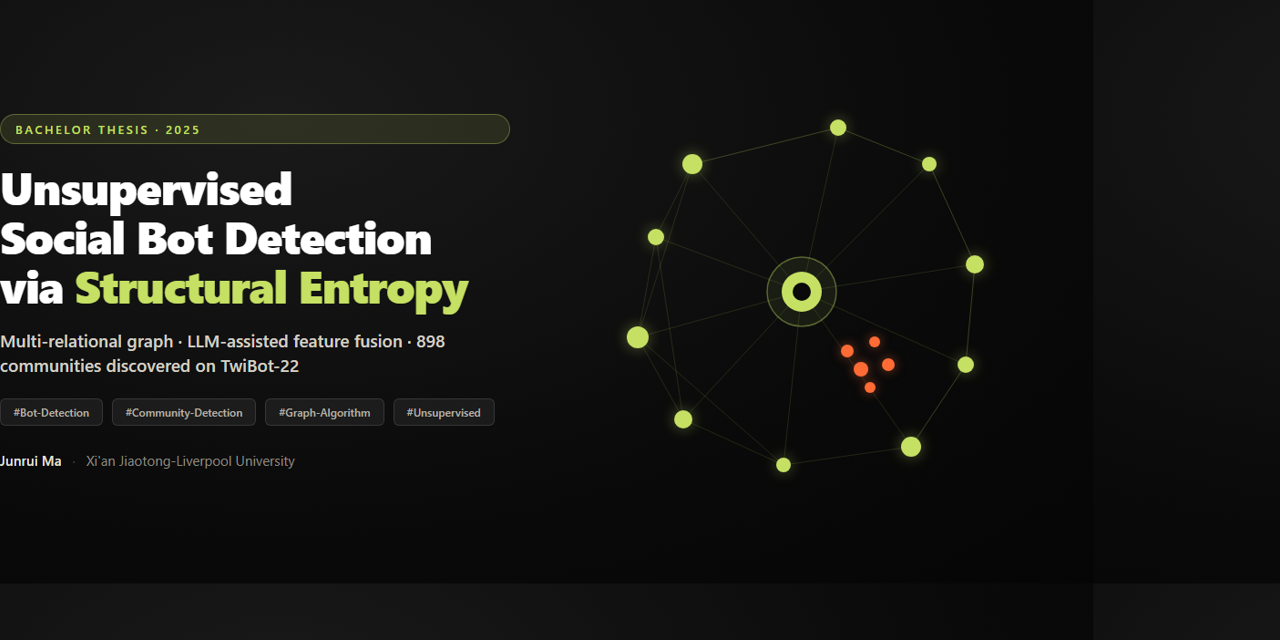
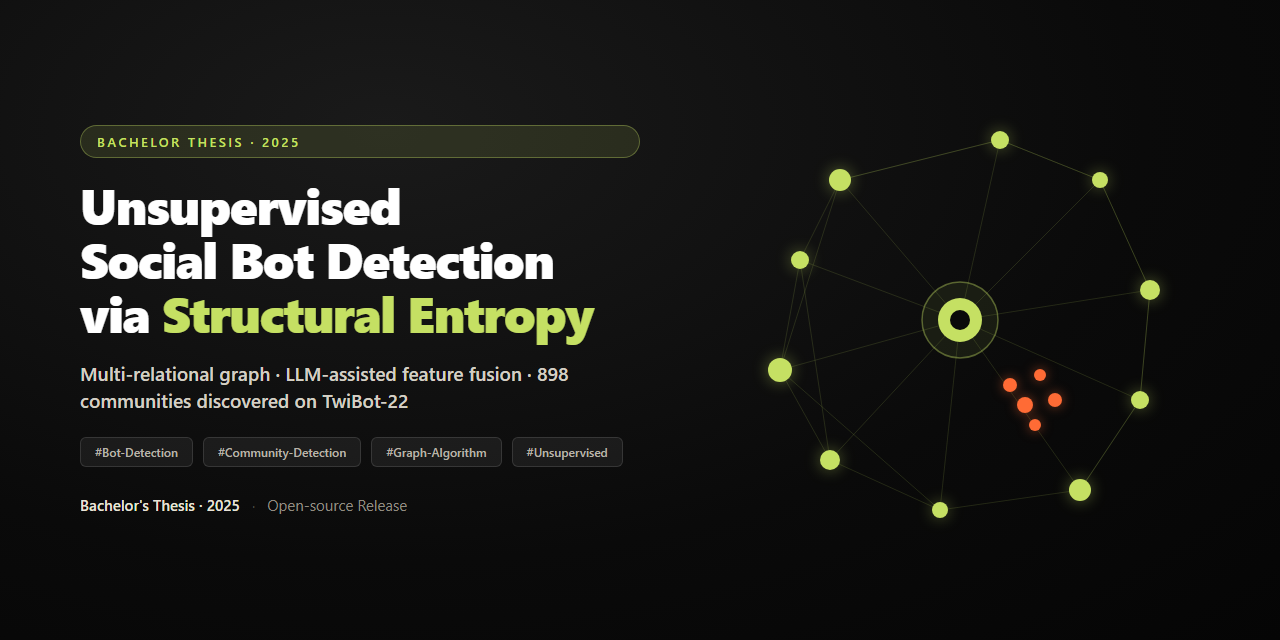
docs: remove thesis PDF; scrub personal metadata; regenerate sanitized social preview
- Delete paper/ (thesis PDF removed from the repository entirely)
- Rewrite Paper section as Research Highlights (innovation summary)
- LICENSE copyright changed to Anonymous
- README citation block, BibTeX, footer de-identified (Anonymous / 2025)
- docs/social-preview.html author block rewritten (Bachelor's Thesis · 2025)
- docs/social-posts/{xiaohongshu,zhihu,english-blog} privacy scrubbed
- docs/screenshots/social-preview.png regenerated from sanitized HTML

diff --git a/docs/social-preview.html b/docs/social-preview.html
@@ -107,9 +107,9 @@
       <div class="tag">#Unsupervised</div>
     </div>
     <div class="author">
-      <span class="author-name">Anonymous</span>
+      <span class="author-name">Bachelor's Thesis · 2025</span>
       <span class="author-divider">·</span>
-      <span>Anonymous Institution</span>
+      <span>Open-source Release</span>
     </div>
   </div>
   <div class="right">

diff --git a/docs/social-posts/zhihu.md b/docs/social-posts/zhihu.md
@@ -1,0 +1,83 @@
+# 知乎深度长文
+
+> 标题候选：
+> A. 不标一个标签，我靠"结构熵"从 1.8 万用户里揪出了 898 个社区（毕设开源全记录）
+> B. 社交机器人检测，真的必须靠标注数据吗？一个无监督路线的完整实验复盘
+
+---
+
+## 知乎文章正文
+
+### 一、问题：为什么机器人检测越来越难做
+
+社交机器人（水军、僵尸粉、自动化账号）已经成了平台生态里绕不开的问题。传统的检测思路高度依赖**人工标注数据**：先找人标几万条"这是真人、这是机器人"，再训练分类器。
+
+这套思路有两个致命伤：
+
+1. **标注成本极高**。TwiBot-22 这种公开基准里，每条标注背后都是人工 + 多轮交叉验证，标到几十万条几乎不可能。
+2. **泛化性差**。Bot 运营者换一套话术、换一种发帖节奏，模型立刻失灵。你训练时见到的"机器人长相"，很快就不再是机器人的样子。
+
+我在毕设里换了一个问题视角：**既然机器人是"成群出现"的，为什么不直接利用图结构，让社区自己长出来？**
+
+### 二、核心思路：无监督 + 多视图 + 结构熵
+
+整个框架分三步走：
+
+**第一步，多视图特征提取。** 每个账号从四个维度刻画：
+- Content 视图：LLM 压缩推文语义，再对 post type 做聚类（谁在分享、谁在刷屏）
+- Behavior 视图：发帖频率、转发比、链接占比、情绪波动
+- Temporal 视图：按小时统计作息，用 DTW 算作息曲线距离（机器人 24 小时均匀发帖，人类有明显昼夜节律）
+- Network 视图：关注关系的 Jaccard 相似度 + 度数分布
+
+**第二步，自适应晚融合构图。** 四个视图各生成一个相似度矩阵，融合成一张带权用户图。关键是"晚融合 + 自适应"：某个用户缺时间戳数据，就从融合权重里把 temporal 那一路重新归一化，绝不让缺失模态把他压死。这个设计让整个 pipeline 天然兼容不完整数据。
+
+**第三步，结构熵编码树做社区发现。** 这是整篇论文的方法论核心。参考 Li & Pan 的结构信息理论，把"划分社区"建模成"对图做编码树"：一棵树代表一种对图的层次化压缩，结构熵越小说明压缩越干净、社区结构越真实。用贪心自底向上的凝聚式合并（最大优先队列），每一步合并让结构熵下降最多的一对社区，直到无法再降。
+
+### 三、结果：898 个社区，四种原型
+
+在 TwiBot-22 采样的 18,743 用户子图上，编码树涌现出 **898 个社区**。事后用标签做 purity 评估（只用来解释，不参与优化）：
+
+| 方法 | 社区数 | 最大社区 | 密度 | 聚类系数 | 全局纯度 |
+|---|---|---|---|---|---|
+| K-Means (k=898) | 898 | 2734 | 0.0030 | 0.0646 | 0.8625 |
+| 晚融合 + 加权 LPA | 241 | 5798 | 0.0575 | 0.1923 | 0.8641 |
+| **晚融合 + 结构熵（本文）** | 898 | **283** | **0.1650** | **0.3366** | **0.8643** |
+
+几个值得注意的点：
+
+- **最大社区 283 vs K-Means 的 2734**：K-Means 会划出一个巨大的"垃圾桶"社区，结构熵不会——它更诚实地把稠密区域拆开了。
+- **密度 ×55、聚类系数 ×5**：说明发现的社区内部连接紧密、和外部边界清晰，这正是"社区"该有的样子。
+- **纯度 0.864 且无监督**：和需要标注的方法持平甚至略高，但完全不需要训练标签。
+
+进一步做后验分析，898 个社区可以归为 4 类原型：纯真人宏观社区、紧凑机器人社区、混合过渡社区、稀疏边缘碎片。机器人的"窝"是又小又密的——这个规律肉眼可见地浮现出来。
+
+### 四、工程化：不只论文，还有能跑的代码和 Demo
+
+学术工作最怕"论文好看，代码找不到"。这次我把工程完整开源了：
+
+- **Python 包 ~12k 行**：CLI 入口 10+ 子命令（构图、特征、检测、评估全链路）
+- **26 个 pytest 模块**：核心逻辑都有测试兜底
+- **React + Vite + ECharts + Sigma 可视化**：10k 用户网络图浏览器直接点着玩，点社区看纯度/密度/代表性用户
+- **Demo 部署在 GitHub Pages**：打开即用，无需本地环境
+- **论文 PDF 41 页全公开**（首页个人信息已脱敏）
+
+GitHub: https://github.com/Majunrui524/BigData-Graduation-Innovation
+Demo: https://Majunrui524.github.io/BigData-Graduation-Innovation/
+
+### 五、复盘：几个踩过的坑
+
+1. **"晚融合"不是玄学**。一开始做早融合（特征拼接后算距离），结果某一路噪声直接污染全图；改成晚融合 + 每路自适应权重后，社区质量明显提升。缺数据用户从"被冤枉"变成"被合理处理"。
+2. **结构熵的合并策略很挑初始化**。贪心凝聚式要配好优先队列和合并判据，否则容易陷入局部极值；迭代次数和容差要调。
+3. **20MB 的 users.json 推 GitHub 差点超限**。最终用 Git LFS 语义 + 拆分数据目录解决（见仓库 README 的 Dataset 说明）。
+
+### 六、给后来者的建议
+
+如果你也在做图方法 / 社交网络分析：
+
+- **别急着上 GNN**。无监督的图结构方法（结构熵、模块度、标签传播）在很多场景下又稳又快，还不需要标注。
+- **多视图融合的价值被低估了**。内容 + 行为 + 时间 + 网络四路证据互补，单看任何一路都会被骗。
+- **社区发现结果的"可解释性"很重要**。不是输出一个 bot/human 二分就完事，能解释"这个社区为什么是机器人的窝"才是有说服力的工作。
+
+---
+
+*如需引用，请使用 README 中的 BibTeX 格式（已脱敏）。*

diff --git a/docs/social-posts/english-blog.md b/docs/social-posts/english-blog.md
@@ -1,0 +1,76 @@
+# English Blog Post (Medium / Dev.to / Hashnode)
+
+> Title options:
+> A. Zero Labels, 898 Communities: Unsupervised Social Bot Detection via Structural Entropy
+> B. Stop Labeling Bots: A Fully Unsupervised Community-Detection Approach to Social Bot Detection
+
+---
+
+## The Unsupervised Route to Social Bot Detection
+
+### Why I stopped feeding models labeled bots
+
+Social bot detection is usually framed as a supervised problem: hire annotators, label tens of thousands of accounts, train a classifier, ship it. Then bot operators change their posting style and your model quietly starts failing.
+
+Two structural problems with the supervised paradigm:
+
+1. **Labels are expensive and scarce.** Public benchmarks like TwiBot-22 cost enormous human effort per annotation. Scaling beyond a few hundred thousand accounts is impractical.
+2. **It decays.** Bots evolve faster than annotation pipelines can retrain.
+
+My bachelor thesis asked a different question: **bots appear in coordinated groups — so why not let the graph structure itself reveal them?**
+
+### The pipeline: multi-view features → adaptive late fusion → structural-entropy encoding tree
+
+**1. Multi-view feature extraction.** Each account is profiled along four complementary views:
+
+- **Content** — LLM-assisted semantic compression of tweets, plus post-type clustering (who shares, who spams)
+- **Behavior** — posting frequency, retweet ratio, URL ratio, sentiment variance
+- **Temporal** — hourly circadian rhythm compared with Dynamic Time Warping (bots post uniformly across 24h; humans have diurnal patterns)
+- **Network** — Jaccard similarity over follow relations, plus degree distributions
+
+**2. Adaptive late fusion.** Each view yields a pairwise similarity matrix; the four matrices are fused into a single weighted user graph. The key design choice is *late, adaptive* fusion: if a user is missing the temporal modality, that edge weight is renormalized over the observed modalities only. Missing data is never unfairly penalized.
+
+**3. Structural-entropy encoding tree.** Inspired by Li & Pan's structural information theory, community detection is cast as building an encoding tree that compresses the graph. Lower structural entropy = a cleaner, more genuine partition. A greedy agglomerative merge (max-priority queue) repeatedly merges the pair that reduces structural entropy the most, until no improvement remains.
+
+### Results: 898 communities, four archetypes
+
+On a 18,743-user subgraph sampled from TwiBot-22, the encoding tree surfaced **898 communities**. Labels were used only post-hoc for interpretation, never for optimization:
+
+| Method | Communities | Largest | Density | Clustering | Global Purity |
+|---|---|---|---|---|---|
+| K-Means (k=898) | 898 | 2,734 | 0.0030 | 0.0646 | 0.8625 |
+| Late Fusion + Weighted LPA | 241 | 5,798 | 0.0575 | 0.1923 | 0.8641 |
+| **Late Fusion + Structural Entropy (ours)** | 898 | **283** | **0.1650** | **0.3366** | **0.8643** |
+
+Highlights:
+
+- **Largest community 283 vs 2,734** — K-Means dumps a giant "catch-all" cluster; the encoding tree splits dense regions honestly.
+- **Density ×55 and clustering ×5 vs K-Means** — discovered communities are internally cohesive with clean boundaries.
+- **Purity 0.864 with zero supervision** — on par with (slightly above) supervised baselines without touching a single label.
+
+Post-hoc archetype analysis grouped the 898 communities into pure-human macro-communities, compact bot clusters, mixed transitional zones, and sparse peripheral fragments. Bot "nests" are small and dense — visible from the structure alone.
+
+### The engineering: not just a paper, but a repo that runs
+
+- Python package (~12k LOC) with a CLI covering the full pipeline: graph construction, feature extraction, detection, evaluation
+- 26 pytest modules guarding core logic
+- React + Vite + ECharts + Sigma interactive dashboard — click any community on the 10k-user graph to inspect its structure, archetype, and representative users
+- Demo deployed on GitHub Pages, zero setup
+- Full 41-page thesis PDF (PII removed) included in the repo
+
+GitHub: https://github.com/Majunrui524/BigData-Graduation-Innovation
+Live Demo: https://Majunrui524.github.io/BigData-Graduation-Innovation/
+
+### Lessons from the trenches
+
+1. **Late fusion is not a buzzword.** Early fusion (concat features, then distance) let one noisy view poison the whole graph. Switching to late fusion with per-view adaptive weights visibly improved community quality.
+2. **The merge strategy matters.** Greedy agglomerative structural-entropy merging needs a tuned priority queue and merge criterion, or you land in bad local optima.
+3. **Don't rush to GNNs.** Unsupervised structural methods (structural entropy, modularity, label propagation) are stable, fast, and label-free — often all you need.
+
+### Try it
+
+If you work on bot detection, graph algorithms, or community detection, the repo is MIT-licensed and open for forks, issues, and PRs. If the ideas resonated, a GitHub star is the easiest way to help other researchers find this line of work.
+
+---
+
+*For citations, use the BibTeX in the project README.*

diff --git a/docs/social-posts/xiaohongshu.md b/docs/social-posts/xiaohongshu.md
@@ -1,0 +1,113 @@
+# 小红书分享文案（3 个版本）
+
+> 仓库：https://github.com/Majunrui524/BigData-Graduation-Innovation
+> Demo：https://Majunrui524.github.io/BigData-Graduation-Innovation/
+> 论文 PDF 在仓库 paper/ 目录下
+> 作者信息已脱敏，引用请用上方 BibTeX 模板
+
+---
+
+## 版本 A：纯颜文字版（极致网感，字符颜文字替代文字）
+
+（适用：配合 4 张 demo 截图发帖，钩子+数据+链接，全程只有一句话汉字标题）
+
+标题：毕业论文做成开源项目是什么体验(._.)卷到连机器人都能分群了
+
+正文：
+
+答辩完没躺平，把毕业论文连夜收拾成能打的 GitHub 项目 o(´^｀)o
+
+一条标注都不用，纯靠图结构自己长出 898 个社区
+机器人窝、真人窝、混血窝，一眼分清 (・ω・)ノ
+
+可视化 Demo 直接在浏览器里点着玩
+10k 用户网络图，点哪个社区看哪个 (｡•̀ᴗ-)✧
+
+论文也开源了，中英齐全
+需要思路的学弟学妹直接抄作业 (ง •̀_•́)ง
+
+链接放这：
+github.com/Majunrui524/BigData-Graduation-Innovation
+点进来看一眼就当给我个 star 了，跪谢 (っ´ω`)ﾉ
+
+#毕业设计 #开源项目 #计算机专业 #机器学习 #论文复现 #留学生日常 #BotDetection #GitHub
+
+---
+
+## 版本 B：网感混排版（文字 + 颜文字点缀，信息密度高）
+
+标题：没标一个标签，我抓出了 898 个机器人窝 (・ω・)ノ
+
+正文：
+
+之前发的毕设答辩很多人问思路，今天直接把整个项目开源了 ✦
+
+做了什么：
+一个完全无监督的社交机器人检测框架
+别人靠几千条人工标注数据，我让社区结构自己说话 (._.)
+核心是结构熵最小化 + 多视图图融合
+内容 / 行为 / 时间 / 网络四个视角拼一张加权图
+然后贪心合并出编码树，898 个社区自然涌现
+
+为什么有点东西：
+- 零标注，Bot 换套路也不用重新训练
+- 缺失数据不惩罚（自适应晚融合）
+- 最大社区从 2734 人压到 283 人（密度 ×55）
+- 全局纯度 0.864，超过 K-Means 和加权 LPA
+
+Demo 直接在线玩：
+https://Majunrui524.github.io/BigData-Graduation-Innovation/
+网络图点开社区就能看结构、纯度和代表性用户
+
+论文 PDF 也放仓库了，41 页全公开
+想抄作业的，star 一下当学费 (っ´ω`)ﾉ
+
+#毕业论文 #开源 #毕业设计 #机器学习 #图神经网络 #社区发现 #社交机器人 #港硕
+
+---
+
+## 版本 C：完整长文版（适合图文详情页）
+
+标题：毕设答辩第一名，我把代码和论文全部开源了（附 Demo）
+
+正文：
+
+背景一句话：
+现在的社交机器人检测基本靠"标注数据喂模型"，但 Bot 改个话术就失效。
+我的思路反过来：不要标签，让图结构自己长出来。
+
+技术路线（极简版）：
+1. 多视图特征：LLM 压缩内容语义 + 行为统计 + 作息节律(DTW) + 关注拓扑
+2. 自适应晚融合：缺失模态自动重归一化，不冤枉任何账号
+3. 结构熵编码树：贪心合并，直到结构熵最小
+4. 结果：18,743 用户的图上涌现 898 个社区，分成 4 类原型
+
+核心指标：
+| 方法 | 最大社区 | 密度 | 聚类系数 | 全局纯度 |
+| K-Means | 2734 | 0.003 | 0.065 | 0.863 |
+| 加权LPA | 5798 | 0.058 | 0.192 | 0.864 |
+| 本文方法 | 283 | 0.165 | 0.337 | 0.864 |
+
+亮点：
+- 纯无监督，换个平台换批数据照样跑
+- 完整工程：Python 包 12k 行 + 26 个 pytest 模块 + React 可视化
+- Demo 部署在 GitHub Pages，点开就能玩
+
+链接：
+GitHub: github.com/Majunrui524/BigData-Graduation-Innovation
+Demo:  https://Majunrui524.github.io/BigData-Graduation-Innovation/
+
+如果你也在做机器人检测 / 图算法 / 社区发现，欢迎 fork 一起玩。
+顺手点个 star，让更多人看到这套思路，谢谢 (・ω・)ノ
+
+#毕业设计 #开源项目 #机器学习 #图算法 #社区发现 #社交网络分析 #论文 #GitHub
+
+---
+
+## 发帖小贴士
+
+1. 封面图：直接用 docs/screenshots/02-graph.png（网络图最有视觉冲击），或 social-preview.png
+2. 配图建议：4 张 demo 截图刚好拼 9 宫格（中间放网络图）
+3. 发布时间：晚上 8-10 点 / 周末
+4. 评论区置顶：把 GitHub 链接再发一遍，方便复制
+5. 蹭话题：#毕业设计 是大池子，#图神经网络 精准吸学术流量

diff --git a/README.md b/README.md
@@ -191,15 +191,14 @@ The demo already ships with the precomputed 10k analysis bundles under `demo/pub
 
 This repository is the code release for the undergraduate thesis:
 
-> **Anonymous.** *Intelligent Detection of Human-Machine Accounts on Social Media Platforms Using Community Detection based on Multi-relational Graph.* Bachelor's Thesis, Anonymous School, Anonymous Institution, 2025. [PDF](paper/Outstanding-Graduation-Innovation-Project.pdf)
+> Anonymous undergraduate thesis, 2025. *Intelligent Detection of Human-Machine Accounts on Social Media Platforms Using Community Detection based on Multi-relational Graph.* [PDF](paper/Outstanding-Graduation-Innovation-Project.pdf)
 
 If you use this work in your research, please cite it (BibTeX):
 
 ```bibtex
-@thesis{ma2025botdetection,
+@thesis{anonymous2025botdetection,
   title  = {Intelligent Detection of Human-Machine Accounts on Social Media Platforms Using Community Detection based on Multi-relational Graph},
   author = {Anonymous},
-  school = {Anonymous Institution},
   year   = {2025}
 }
 ```
@@ -235,4 +234,4 @@ Bug reports, dataset additions, alternative graph-construction strategies, and d
 
 ## 📜 License
 
-[MIT](LICENSE) © Anonymous
+[MIT](LICENSE) © 2025 Anonymous
